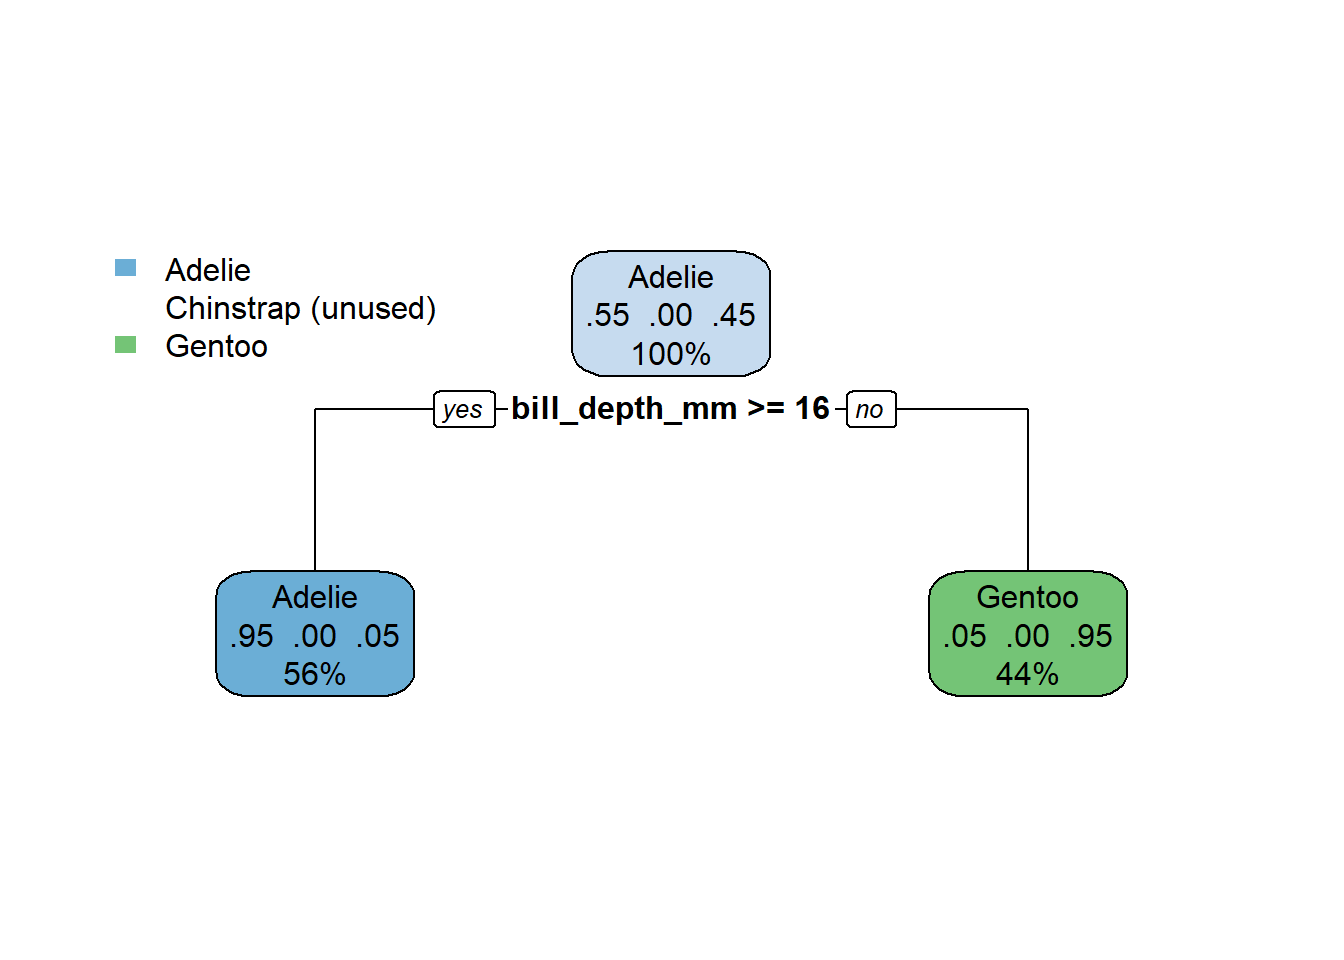
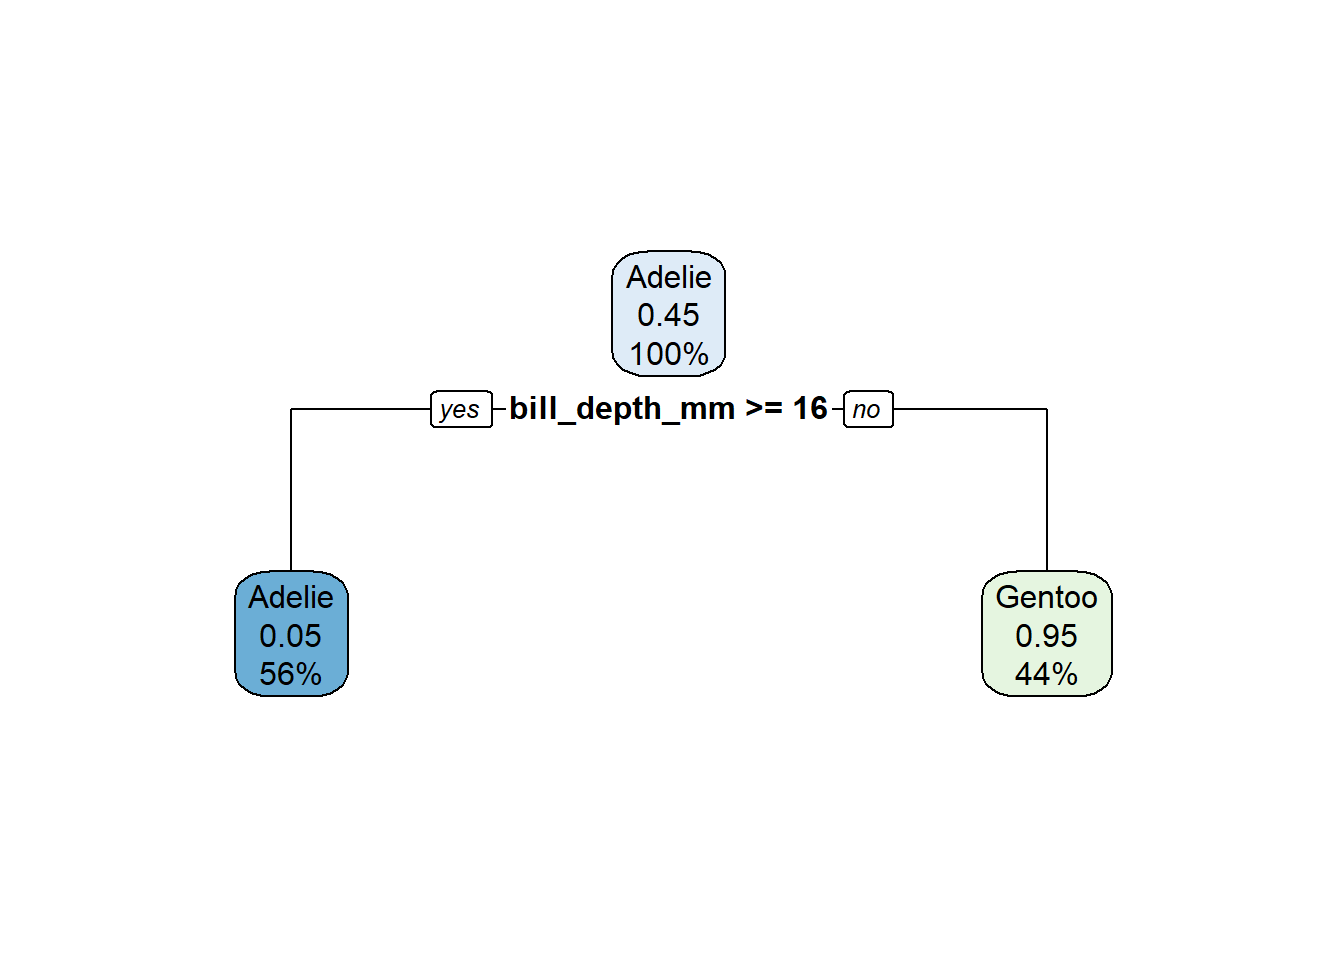
remove uneccesary level in factor in tree classification

diff --git a/docs/tree_classification/tree_classification.html b/docs/tree_classification/tree_classification.html
@@ -196,7 +196,7 @@ pre > code.sourceCode > span > a:first-child::before { text-decoration: underlin
 <div class="cell">
 <div class="sourceCode cell-code" id="cb2"><pre class="sourceCode r code-with-copy"><code class="sourceCode r"><span id="cb2-1"><a href="#cb2-1" aria-hidden="true" tabindex="-1"></a>penguin_data <span class="ot">=</span> penguins <span class="sc">%&gt;%</span> </span>
 <span id="cb2-2"><a href="#cb2-2" aria-hidden="true" tabindex="-1"></a>  <span class="fu">filter</span>(<span class="sc">!</span>species <span class="sc">==</span> <span class="st">"Chinstrap"</span>) <span class="sc">%&gt;%</span> </span>
-<span id="cb2-3"><a href="#cb2-3" aria-hidden="true" tabindex="-1"></a>  <span class="fu">mutate</span>(<span class="at">species =</span> <span class="fu">as.factor</span>(species))</span></code><button title="Copy to Clipboard" class="code-copy-button"><i class="bi"></i></button></pre></div>
+<span id="cb2-3"><a href="#cb2-3" aria-hidden="true" tabindex="-1"></a>  <span class="fu">mutate</span>(<span class="at">species =</span> <span class="fu">factor</span>(species))</span></code><button title="Copy to Clipboard" class="code-copy-button"><i class="bi"></i></button></pre></div>
 </div>
 </section>
 <section id="visualizing-the-data" class="level2">
